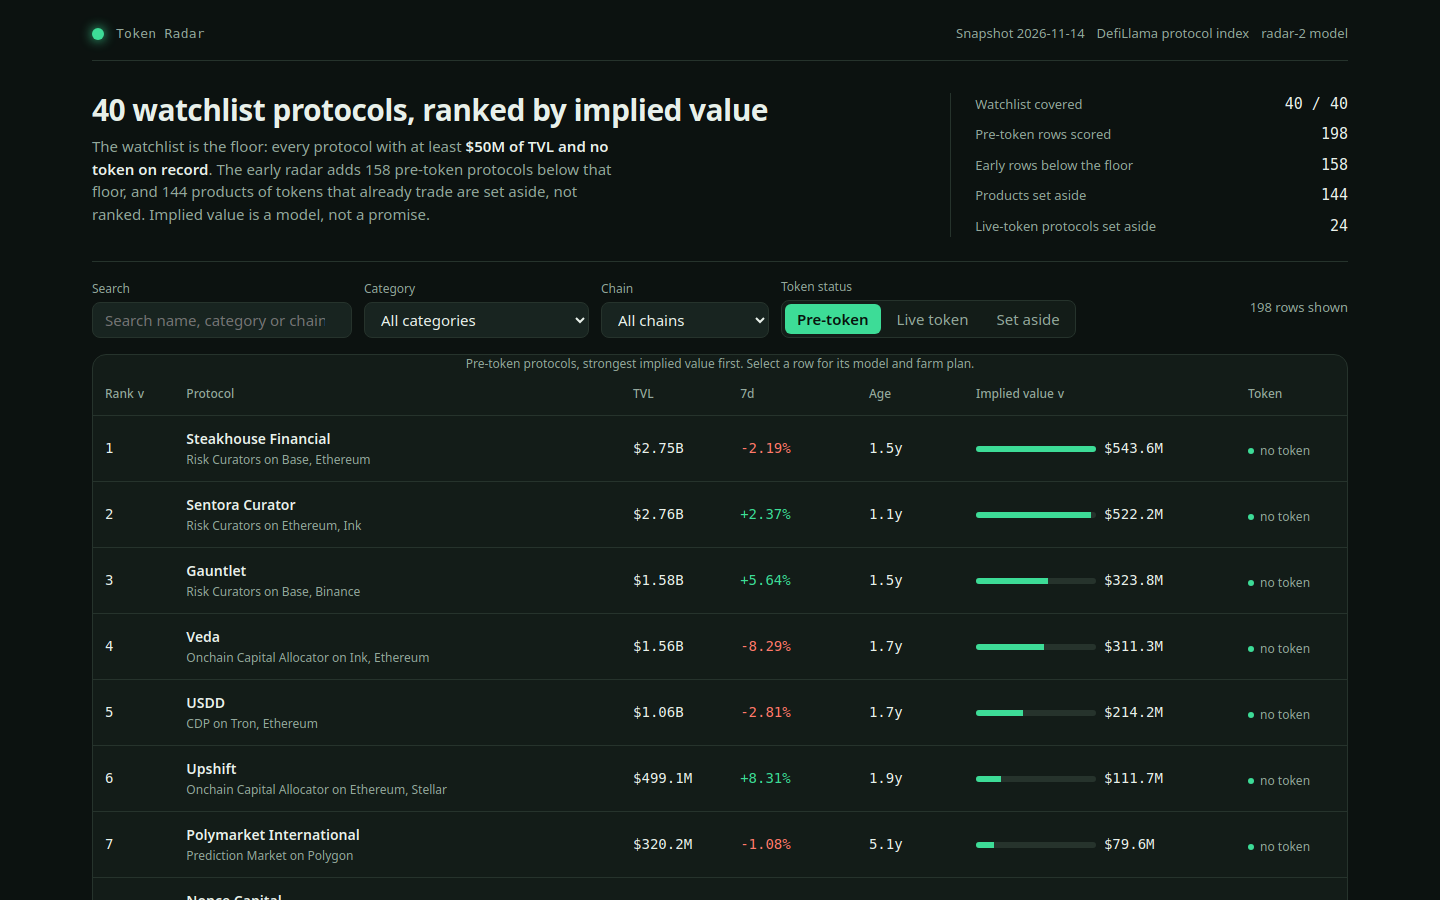
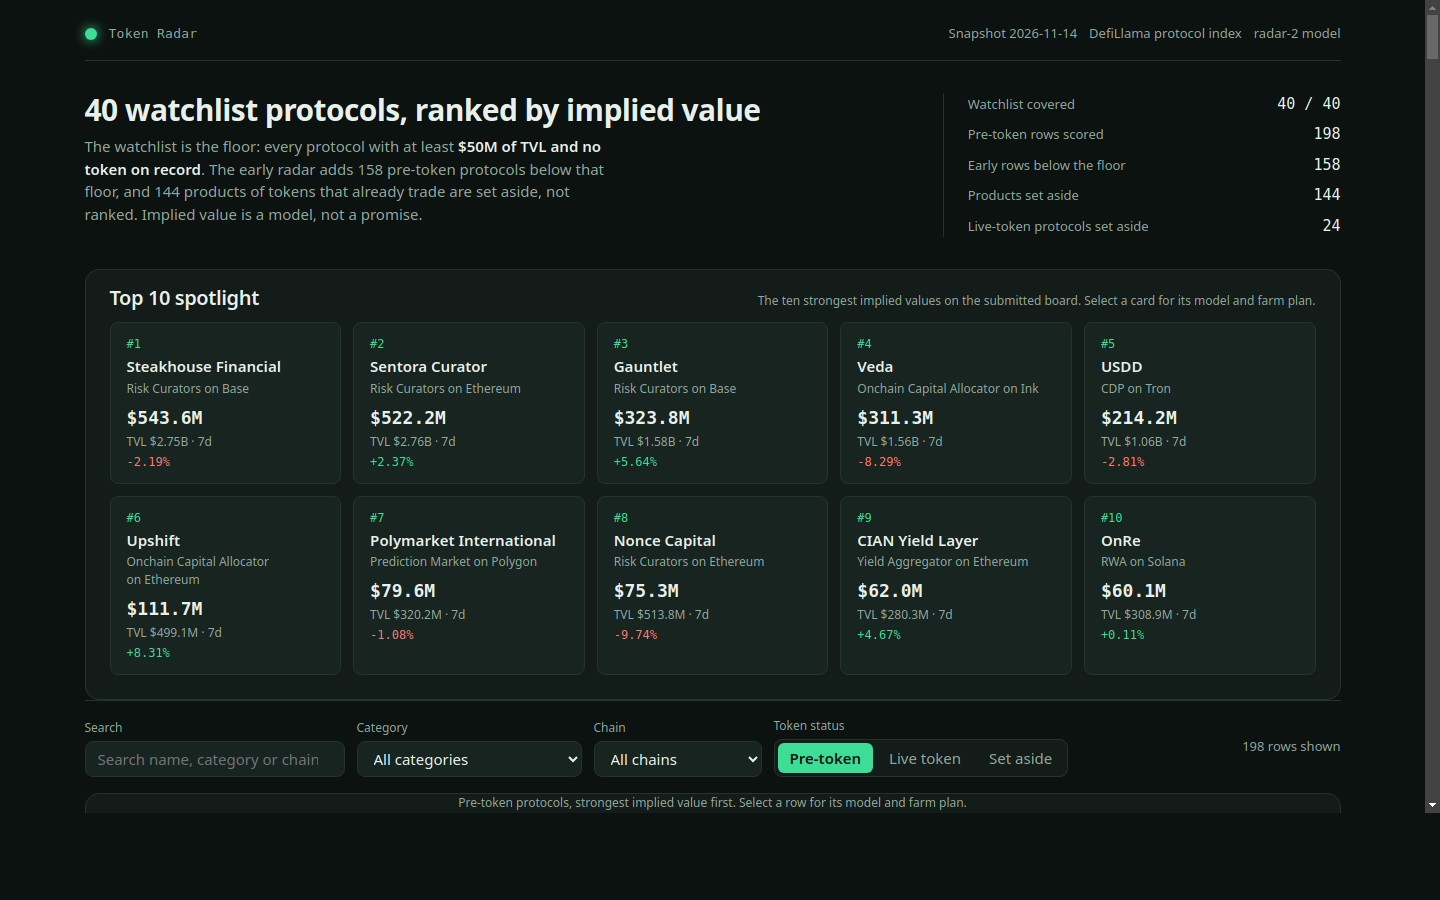
Refresh screenshots for the new dashboard and document the iteration

diff --git a/BUILD-NOTES.md b/BUILD-NOTES.md
@@ -81,3 +81,51 @@ the 5/day, 10-total budget toward rank 1).
   the board view; (b) per-category median implied value as context in the detail
   view; (c) richer farm-step variety per chain (L2 vs L1 gas notes already vary by
   first chain only).
+
+## Iteration (2026-11-18) — the three ideas above, built
+
+All three iteration ideas are now implemented, as presentation and enrichment only:
+
+- **Top-10 spotlight strip** (`dashboard/app.js`, `dashboard/app.css`): a strip of ten
+  cards above the board on the Pre-token tab, one per strongest row, each showing rank,
+  name, category and first chain, implied value, TVL and seven-day growth, and opening
+  the same detail drawer as its table row. Under the model sandbox the strip re-ranks
+  with the reader's constants and says so, exactly like the table.
+- **Per-category median implied value** (`dashboard/app.js`): the detail view's Implied
+  value section now also carries the median implied value of the protocol's own
+  category and the category's protocol count, with a sentence placing the protocol
+  against that median (for example Steakhouse Financial: Risk Curators median $4.1M
+  across 34 protocols, this protocol at 131.03x the median). The median is computed in
+  the page from the submitted rows in data.js; it is context only and never feeds the
+  model, and the detail text says exactly that.
+- **Richer per-chain farm steps** (`lib/model.ts`, mirrored line-for-line in
+  `dashboard/app.js`): farm steps are now written per chain family — Ethereum,
+  optimistic rollup (Arbitrum, Optimism, Base, Mantle, Mode, Blast, Ink, World Chain,
+  Unichain, Soneium, Lisk), ZK rollup (zkSync Era, Linea, Scroll, Starknet, Polygon
+  zkEVM), Solana, BNB Chain, Polygon, Bitcoin, and a neutral fallback. The opening move
+  gains a family sentence (how funds arrive, how long a bridge back takes: about seven
+  days for an optimistic rollup, typically within a day for a ZK rollup), the per-action
+  fee note is family-priced, and the weekly step is priced in the family's fees instead
+  of one flat $2 line. Still seven steps per protocol, each 20–600 characters.
+
+**Model invariant, re-verified after the iteration:** the model itself is untouched.
+Two fresh runs are byte-identical to each other; `data.js` is byte-identical to
+submission #1's (sha256 3989ea87…); every board row's non-farm fields are identical to
+submission #1's board, and the numeric fingerprint over rank, slug, implied value,
+TVL, change_7d, age and all model multipliers matches submission #1 exactly
+(b9245d6c…). Only `farm_steps` text changed, on all 198 rows. The page-generated farm
+steps were checked against board.json for all 198 rows: identical. All 7 local gates
+re-pass (dashboard 3 files / 47,641 bytes / no network references; board 198 rows;
+sorted with 198 distinct implied values; coverage 40/40; farm steps 7 × 20–600 chars;
+screenshots 3 × 1440x900 under 512 KiB; dossier 739,737 bytes byte-identical to
+buildDossier, text 47,905 bytes under the 65,536 cap).
+
+**Screenshots refreshed** for the new dashboard at 1440x900 with headless Chromium:
+board (spotlight strip visible), detail (Steakhouse Financial, category median and
+the Base bridge note visible), filtered (Risk Curators, 34 rows shown).
+
+**Branding:** the README now carries the competition's template header (the three
+make.fun badges and the bounty link) and referral footer, and the GitHub About is set
+from the live requirements (description from the template with a 147-character
+summary, homepage https://make.fun/bounty/token-radar-01, topics makefun, ai-agents,
+bounties, trading). Branding landed as its own commit before the feature commits.
